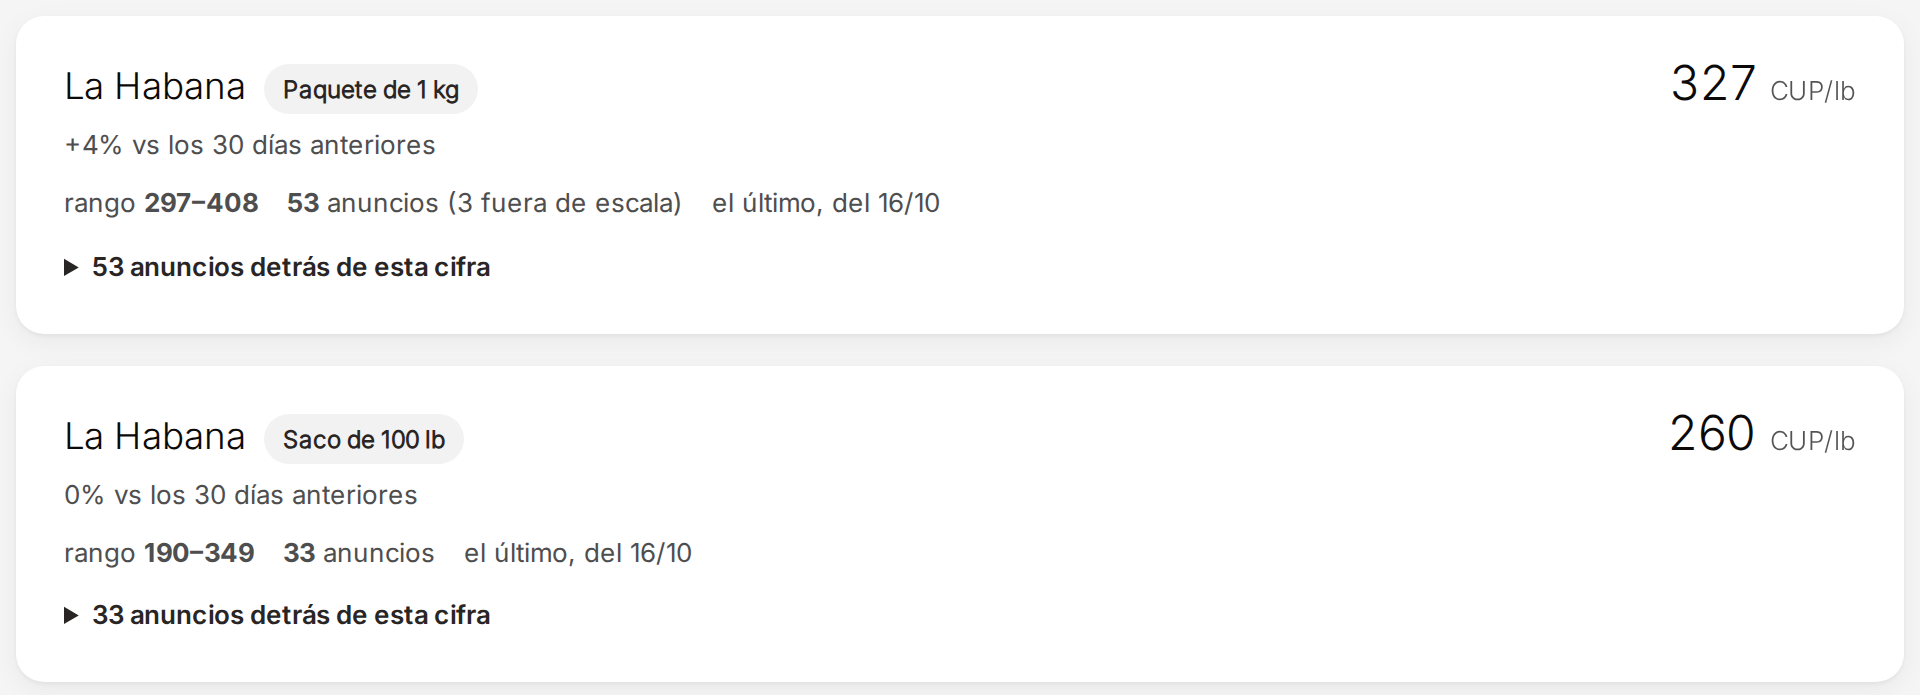
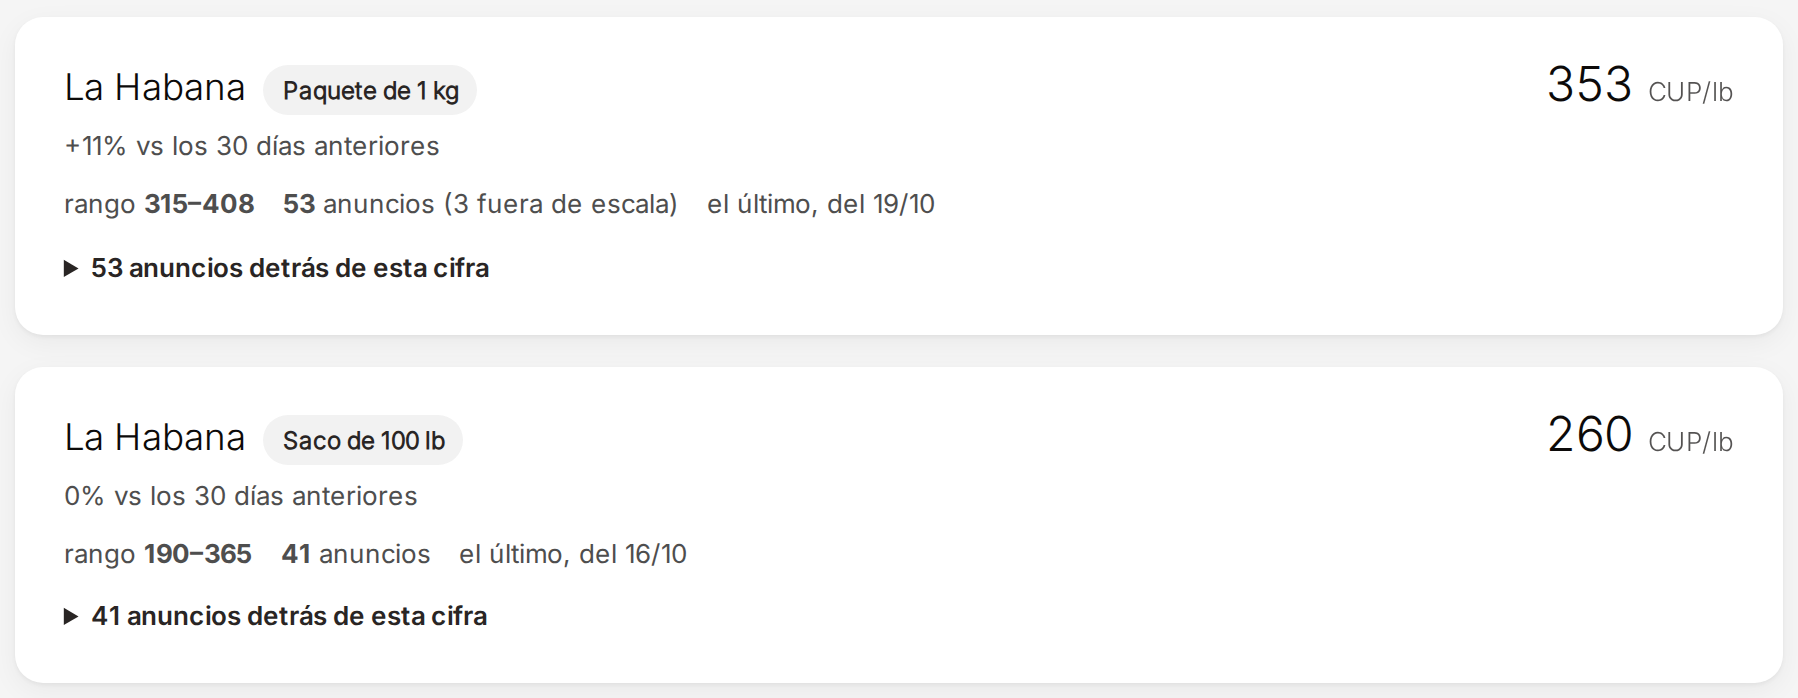
docs(instituciones): presentación lista para enviar con cifras del 20-10, correo de la marca y guani.app

diff --git a/docs/presentacion-instituciones/slides/embudo.html b/docs/presentacion-instituciones/slides/embudo.html
@@ -1,27 +1,27 @@
 <section id="embudo" data-transition="fade" style="background:#0b2c43;color:#f6f1e7;font-family:'Inter', Arial, sans-serif;padding:128px 128px 160px;display:flex;flex-direction:column;justify-content:space-between;gap:48px">
 <div style="display:flex;flex-direction:column;gap:28px">
-<p style="font-size:28px;font-weight:600;letter-spacing:6px;text-transform:uppercase;color:#ffd072">Corte real del 18 de octubre de 2026</p>
+<p style="font-size:28px;font-weight:600;letter-spacing:6px;text-transform:uppercase;color:#ffd072">Corte real del 20 de octubre de 2026</p>
 <h2 style="font-size:64px;font-weight:300;line-height:1.1;color:#f6f1e7;width:1550px">La mayor parte de lo que se recibe no es información de precios; por eso el filtro es decisivo.</h2>
 </div>
 <div style="display:flex;flex-direction:column;gap:20px">
-<p style="font-size:32px;color:#c9d6e0"><b style="color:#f6f1e7">6.899 mensajes</b> recibidos</p>
+<p style="font-size:32px;color:#c9d6e0"><b style="color:#f6f1e7">7.223 mensajes</b> recibidos</p>
 <div style="display:flex;height:72px;border-radius:12px;overflow:hidden">
-<div style="width:1360px;background:#5d7891"></div>
-<div style="width:174px;background:#ffd072"></div>
-<div style="width:130px;background:#f08a3c"></div>
+<div style="width:1390px;background:#5d7891"></div>
+<div style="width:180px;background:#ffd072"></div>
+<div style="width:94px;background:#f08a3c"></div>
 </div>
 </div>
 <div style="display:flex;gap:48px">
 <div style="flex:1.4;display:flex;flex-direction:column;gap:8px;border-top:8px solid #5d7891;padding:24px 0 0 0">
 <p style="font-size:72px;font-weight:300;color:#f6f1e7">8 de cada 10</p>
-<p style="font-size:28px;line-height:1.4;color:#c9d6e0">5.637 mensajes no correspondían a los productos medidos y se descartaron.</p>
+<p style="font-size:28px;line-height:1.4;color:#c9d6e0">6.030 mensajes no correspondían a los productos medidos y se descartaron.</p>
 </div>
 <div style="flex:1;display:flex;flex-direction:column;gap:8px;border-top:8px solid #ffd072;padding:24px 0 0 0">
-<p style="font-size:72px;font-weight:300;color:#ffd072">722</p>
-<p style="font-size:28px;line-height:1.4;color:#c9d6e0">anuncios aceptados, que generan 992 precios publicados.</p>
+<p style="font-size:72px;font-weight:300;color:#ffd072">783</p>
+<p style="font-size:28px;line-height:1.4;color:#c9d6e0">anuncios aceptados, que generan 1.197 precios publicados.</p>
 </div>
 <div style="flex:1;display:flex;flex-direction:column;gap:8px;border-top:8px solid #f08a3c;padding:24px 0 0 0">
-<p style="font-size:72px;font-weight:300;color:#f08a3c">540</p>
+<p style="font-size:72px;font-weight:300;color:#f08a3c">410</p>
 <p style="font-size:28px;line-height:1.4;color:#c9d6e0">pendientes de revisión. Dos de cada tres mensajes son texto; uno de cada tres, imagen.</p>
 </div>
 </div>

diff --git a/docs/presentacion-instituciones/slides/respuesta.html b/docs/presentacion-instituciones/slides/respuesta.html
@@ -1,15 +1,15 @@
 <section id="respuesta" data-transition="fade" style="background:#e9eef2;color:#14212e;font-family:'Inter', Arial, sans-serif;padding:128px 128px 160px;display:flex;flex-direction:column;justify-content:space-between;gap:40px">
 <div style="display:flex;flex-direction:column;gap:28px">
-<p style="font-size:28px;font-weight:600;letter-spacing:6px;text-transform:uppercase;color:#a83a62">La respuesta · corte real del 18 de octubre de 2026</p>
+<p style="font-size:28px;font-weight:600;letter-spacing:6px;text-transform:uppercase;color:#a83a62">La respuesta · corte real del 20 de octubre de 2026</p>
 <h2 style="font-size:64px;font-weight:300;line-height:1.1;color:#14212e">Así se ve el orden del arroz en La Habana.</h2>
 </div>
 <div style="display:flex;gap:64px;align-items:center">
 <div style="width:560px;display:flex;flex-direction:column;gap:16px">
 <p style="font-size:28px;line-height:1.4;color:#4a5563">Arroz en paquete de 1 kg. Por libra, se ofrece entre</p>
-<p style="font-size:120px;font-weight:300;line-height:1;color:#14212e;white-space:nowrap">297–408</p>
-<p style="font-size:32px;line-height:1.4;color:#14212e"><b>CUP</b> · mediana <b>327</b> · <b>53 anuncios</b> en 30 días</p>
+<p style="font-size:120px;font-weight:300;line-height:1;color:#14212e;white-space:nowrap">315–408</p>
+<p style="font-size:32px;line-height:1.4;color:#14212e"><b>CUP</b> · mediana <b>353</b> · <b>53 anuncios</b> en 30 días</p>
 </div>
-<img src="/_blob/f1d41e3892d9a0cd7cdfbffb56d71008" alt="La página del arroz en Guani para La Habana: paquete de 1 kg con mediana de 327 CUP por libra, rango de 297 a 408 y 53 anuncios, 3 de ellos fuera de escala; saco de 100 libras con mediana de 260 y 33 anuncios" style="width:1040px;height:376px;object-fit:contain;border-radius:20px;box-shadow:0 24px 64px rgba(11,44,67,0.18)">
+<img src="/_blob/e7abcd58132fec2dfe7852d49d4dad92" alt="La página del arroz en Guani para La Habana: paquete de 1 kg con mediana de 353 CUP por libra, rango de 315 a 408 y 53 anuncios, 3 de ellos fuera de escala; saco de 100 libras con mediana de 260 y 41 anuncios" style="width:1040px;height:376px;object-fit:contain;border-radius:20px;box-shadow:0 24px 64px rgba(11,44,67,0.18)">
 </div>
 <div style="display:flex;gap:48px">
 <p style="flex:1;font-size:28px;line-height:1.4;color:#4a5563;border-top:2px solid #c3ccd4;padding:20px 0 0 0">Tres anuncios fuera de escala quedan apartados y no alteran la cifra.</p>

diff --git a/docs/presentacion-instituciones/slides/hoy.html b/docs/presentacion-instituciones/slides/hoy.html
@@ -1,6 +1,6 @@
 <section id="hoy" data-transition="fade" style="background:#0b2c43;color:#f6f1e7;font-family:'Inter', Arial, sans-serif;padding:128px 128px 160px;display:flex;flex-direction:column;justify-content:space-between;gap:48px">
 <div style="display:flex;flex-direction:column;gap:28px">
-<p style="font-size:28px;font-weight:600;letter-spacing:6px;text-transform:uppercase;color:#ffd072">Corte real del 18 de octubre de 2026</p>
+<p style="font-size:28px;font-weight:600;letter-spacing:6px;text-transform:uppercase;color:#ffd072">Corte real del 20 de octubre de 2026</p>
 <h2 style="font-size:64px;font-weight:300;line-height:1.1;color:#f6f1e7">Dónde está Guani: cinco productos en dos provincias.</h2>
 </div>
 <div style="display:flex;gap:32px">
@@ -13,11 +13,11 @@
 <p style="font-size:28px;line-height:1.4;color:#c9d6e0">provincias: La Habana y Santiago de Cuba</p>
 </div>
 <div style="flex:1;display:flex;flex-direction:column;gap:8px;border-top:6px solid #f08a3c;padding:24px 0 0 0">
-<p style="font-size:120px;font-weight:300;line-height:1;color:#f08a3c">604</p>
+<p style="font-size:120px;font-weight:300;line-height:1;color:#f08a3c">770</p>
 <p style="font-size:28px;line-height:1.4;color:#c9d6e0">precios en los últimos 30 días</p>
 </div>
 <div style="flex:1;display:flex;flex-direction:column;gap:8px;border-top:6px solid #f08a3c;padding:24px 0 0 0">
-<p style="font-size:120px;font-weight:300;line-height:1;color:#f08a3c">992</p>
+<p style="font-size:120px;font-weight:300;line-height:1;color:#f08a3c">1.197</p>
 <p style="font-size:28px;line-height:1.4;color:#c9d6e0">precios desde el inicio</p>
 </div>
 </div>

diff --git a/docs/presentacion-instituciones/slides/cierre.html b/docs/presentacion-instituciones/slides/cierre.html
@@ -2,6 +2,6 @@
 <img src="/_blob/1937bd5faa6c22845a2a3c30b2518dfa" alt="Avatar de Guani" style="width:140px;height:140px;object-fit:cover;border-radius:50%;border:5px solid #ffd072">
 <h2 style="font-size:88px;font-weight:300;line-height:1.08;color:#f6f1e7;width:1500px">Guani muestra el precio. Cada quien decide qué hacer con él.</h2>
 <p style="font-size:32px;line-height:1.4;color:#dbe4ec;width:1300px">Formas de colaboración: difusión, sugerencia de grupos y canales de anuncios, o su uso en investigación.</p>
-<p style="font-size:32px;font-weight:600;color:#ffd072">[correo de la marca] · guani.app</p>
+<p style="font-size:32px;font-weight:600;color:#ffd072">leirastudio@gmail.com · guani.app</p>
 <p style="position:absolute;left:128px;bottom:64px;width:1664px;font-size:24px;color:#14212e;font-weight:600">Guani, por Leira Studio. Leira Studio es un estudio de desarrollo de software; Guani es su sistema de precios.</p>
 </section>

diff --git a/src/saimc/marketing/deck.py b/src/saimc/marketing/deck.py
@@ -12,10 +12,11 @@ tal cual, con dos ajustes de renderizado que no tocan el contenido:
   etiqueta `x-*` hace fallar el armado: mejor que pintar a medias.
 
 Tres secciones rotan una por día, igual que `daily.candidate_order`
-(`day.toordinal() % 3`). Las láminas `hoy` (cifras fijas del 18-10) y `cierre`
-(marcador sin rellenar) no se publican. El texto del post es fijo por sección y
-sin cifras. Cambiar una lámina en `docs/` cambia lo que se publica mañana; lo
-ya aprobado queda congelado en el snapshot de la diapositiva.
+(`day.toordinal() % 3`). Las láminas `hoy` (cifras fijas del 20-10) y `cierre`
+(el cierre de la presentación, con el correo de contacto) no se publican. El
+texto del post es fijo por sección y sin cifras. Cambiar una lámina en `docs/`
+cambia lo que se publica mañana; lo ya aprobado queda congelado en el snapshot
+de la diapositiva.
 """
 
 from __future__ import annotations
@@ -33,11 +34,11 @@ _DECK_DIR = Path(__file__).resolve().parents[3] / "docs" / "presentacion-institu
 
 #: `/_blob/<id>` → archivo. Deducido por el `alt` y la proporción de cada uso:
 #: el avatar (cover, 180×180), el anuncio (pregunta, 460×320) y la página del
-#: arroz (respuesta, 1920×695).
+#: arroz (respuesta, 1798×700).
 _BLOBS: dict[str, str] = {
     "1937bd5faa6c22845a2a3c30b2518dfa": "avatar.png",
     "4f15636e6388c756c6cb022fdc2a5b37": "anuncio.png",
-    "f1d41e3892d9a0cd7cdfbffb56d71008": "arroz-habana.png",
+    "e7abcd58132fec2dfe7852d49d4dad92": "arroz-habana.png",
 }
 
 

diff --git a/docs/presentacion-instituciones.md b/docs/presentacion-instituciones.md
@@ -14,27 +14,29 @@ La voz sale de `docs/narrativa-guani.md`: la idea madre en su versión neutra
 («parece caótico, pero tiene orden», que es la que la narrativa pide con
 aliados), la vara como eslogan, las cuentas claras como prueba y «cada quien
 decide» como cierre. La firma y el remitente salen de `docs/plan-marca-leira-studio.md`.
-Escrito el 2026-10-18.
+Escrito el 2026-10-18; cifras, correo y enlaces puestos al día el 2026-10-20.
 
 ## Antes de enviarla
 
-**Bloqueante: no se manda antes de la Fase 1.** La presentación invita a ver el
+**Era bloqueante: no se mandaba antes de la Fase 1.** Ya se cumplió (Fase 0 cerrada en fc64e2e). La presentación invita a ver el
 sitio sin contraseña, y la puerta solo se apaga después del cierre de la
 Fase 0 (`docs/decisions.md`, «2026-10-18 — Criterio de cierre de la Fase 0 y
 de inicio de la Fase 1»). Antes de eso, abrirlo publicaría precios convertidos
 con una tasa equivocada (las 266 filas en USD con `elTOQUE (cache)`).
 
-- [ ] **T1 aplicado** y `revalidate --execute` corrido después.
+- [x] **T1 aplicado** y `revalidate --execute` corrido después (cierre de la Fase 0, 2026-10-19).
 - [x] **La puerta apagada** (`SAIMC_SITE_GATE_ENABLED=false`; hecho el 2026-10-19). Dar acceso por
       contraseña a una institución sirve solo para un adelanto, y entonces
       «gratis, sin registrarse» no es cierto.
-- [ ] **Las cifras, otra vez desde la base.** Las de las slides 7, 9 y 11 son
-      del 2026-10-18 y anteriores a T1: la mediana del arroz y los 604
-      precios pueden moverse. Nunca se dicen de memoria. Si la cifra cambia,
-      se cambia también la captura de la slide 9.
-- [ ] **Cuántos anuncios de la slide 9 revisó una persona.** Mirarlo en la
-      página del arroz antes de enviar: si ninguno, cambiar de ejemplo o
-      decirlo.
+- [x] **Las cifras, otra vez desde la base.** Rehechas el 2026-10-20, después
+      de T1: la mediana del arroz pasó de 327 a 353 y los precios de 30 días
+      de 604 a 770; la captura de la slide 9 se rehízo. Si pasa más de una
+      semana antes de enviar, se vuelven a sacar (tabla de abajo).
+- [x] **Cuántos anuncios de la slide 9 revisó una persona.** De los 53 del
+      paquete de 1 kg (2026-10-20): 4 revisados a mano antes de entrar, 39
+      aceptados por el sistema y auditados después por una persona, 10
+      aceptados por el sistema todavía sin auditar. La slide no dice que una
+      persona los revisó, así que queda como está.
 - [ ] **Los destinatarios, en La Habana y por nivel de exposición** (`docs/plan-marca-leira-studio.md`,
       «Orden de envío»): primero los de exposición baja, esperar una o dos
       semanas, después los de media. Los de alta, y cualquier organismo, solo
@@ -42,14 +44,14 @@ con una tasa equivocada (las 266 filas en USD con `elTOQUE (cache)`).
       no reciben nada.
 - [ ] **Qué se responde si piden un nombre o una llamada**
       (`docs/plan-marca-leira-studio.md`, «Riesgos»).
-- [ ] **El correo de la marca.** Se envía desde el correo de Leira Studio, no
-      desde el personal, y el remitente visible dice «Leira Studio». Reemplazar
-      `[correo de la marca]` en la slide 16.
-- [ ] **Los enlaces.** Abrir los tres de la slide 15 por `https://` desde fuera
-      de la red propia (lo que está delante de uvicorn sigue sin constar en el
-      repo, `docs/plan-bloque-mvp.md`, T10).
-- [ ] **El peso del PDF.** Menos de 5 MB, para que llegue con una conexión
-      lenta.
+- [x] **El correo de la marca.** Se envía desde el correo de Leira Studio, no
+      desde el personal, y el remitente visible dice «Leira Studio». La slide 16
+      dice `leirastudio@gmail.com` (guani.app no tiene correo propio: sin MX al
+      2026-10-20).
+- [x] **Los enlaces.** Los tres de la slide 15 responden 200 por `https://`
+      en guani.app (2026-10-20). La versión publicada todavía decía
+      `guani.duckdns.org` en las slides 1, 10, 15 y 16: se republicó.
+- [x] **El peso del PDF.** 0,6 MB (2026-10-20).
 
 ## Reglas de la presentación
 
@@ -80,18 +82,18 @@ con una tasa equivocada (las 266 filas en USD con `elTOQUE (cache)`).
 - **Usos:** la diáspora y «contado por su gente» quedan fuera, como en la
   narrativa (sin validar, y prometen una participación que no existe).
 
-## De dónde salen las cifras (2026-10-18)
+## De dónde salen las cifras (2026-10-20)
 
 | Cifra | Valor | Fuente |
 | --- | --- | --- |
-| Mensajes recibidos | 6.899 (6.760 de WhatsApp, 139 capturas y textos del operador) | `raw_ingestions` por `source_type` |
+| Mensajes recibidos | 7.223 (7.084 de WhatsApp, 139 capturas y textos del operador) | `raw_ingestions` por `source_type` |
 | Canales y grupos | 48 | `raw_ingestions.channel_id` distintos |
-| Apartados por no ser un anuncio de precio | 5.637 (82 %) | `processing_status = discarded` |
-| Anuncios aceptados | 722 | `processing_status = curated` |
-| Esperando revisión | 540 | `processing_status = pending` |
-| Texto / imagen | 4.624 / 2.275 | `content_type` |
-| Precios publicados | 604 en 30 días, 992 en total | las observaciones visibles de la landing |
-| Arroz en La Habana, paquete de 1 kg | 53 anuncios (3 fuera de escala), 297–408 CUP/lb, mediana 327 | `/producto/arroz?provincia=la-habana`, ventana de 30 días |
+| Apartados por no ser un anuncio de precio | 6.030 (83 %) | `processing_status = discarded` |
+| Anuncios aceptados | 783 | `processing_status = curated` |
+| Esperando revisión | 410 | `processing_status = pending` |
+| Texto / imagen | 4.777 / 2.446 | `content_type` |
+| Precios publicados | 770 en 30 días, 1.197 en total | `routers/public._visible_observations` |
+| Arroz en La Habana, paquete de 1 kg | 53 anuncios (3 fuera de escala), 315–408 CUP/lb, mediana 353 | `/producto/arroz?provincia=la-habana`, ventana de 30 días |
 
 ## La presentación
 
@@ -105,14 +107,14 @@ con una tasa equivocada (las 266 filas en USD con `elTOQUE (cache)`).
   rotan por día (`saimc.marketing.deck`): idea (`cover`, `orden`, `pregunta`,
   `quienvende`, `quees`), cómo funciona (`flujo`, `embudo`, `vara`,
   `respuesta`, `cuentas`) y a quién le habla (`noopina`, `publico`, `viene`,
-  `miralo`). No se publican `hoy` (cifras fijas del 18 de octubre) ni `cierre`
-  (marcador «[correo de la marca]» sin rellenar). Cambiar una lámina aquí
+  `miralo`). No se publican `hoy` (cifras fijas del 20 de octubre) ni `cierre`
+  (el cierre de la presentación, con el correo de contacto). Cambiar una lámina aquí
   cambia lo que se publica mañana, no lo ya aprobado.
 - **Imágenes:** `anuncio.png` es la recreación de un anuncio de
   `static/landing/flujo-1.webp`; `arroz-habana.png` es una captura de las
   tarjetas de `/producto/arroz?provincia=la-habana` sin la cabecera (su rango
-  general incluye los precios fuera de escala); `avatar.png` es
-  `static/seo/apple-touch-icon.png`.
+  general incluye los precios fuera de escala), rehecha el 2026-10-20 desde
+  guani.app; `avatar.png` es el avatar gris de Guani.
 
 | # | Slide | Lo que dice |
 | --- | --- | --- |
@@ -152,7 +154,7 @@ lo que hace cada una.
 > precios, información al público.]
 >
 > Adjuntamos una presentación breve. Hoy cubre [5] productos en [2]
-> provincias, y pueden consultarlo en guani.app. Con gusto les
+> provincias, y pueden consultarlo en https://guani.app. Con gusto les
 > contamos más o respondemos cualquier pregunta.
 >
 > Saludos,
